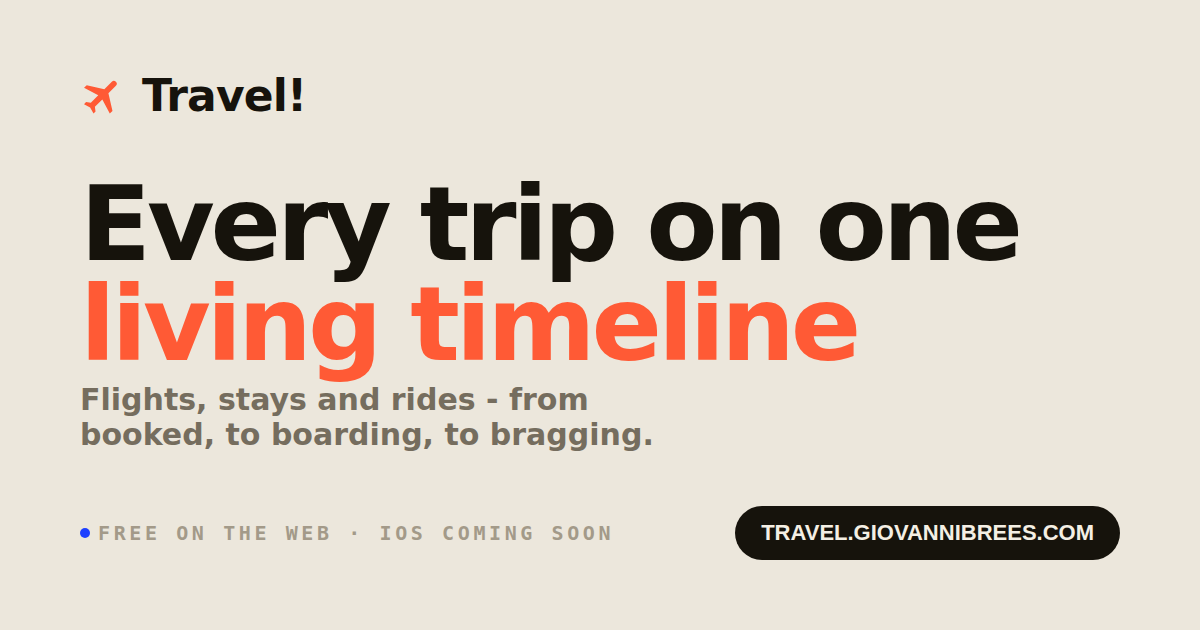
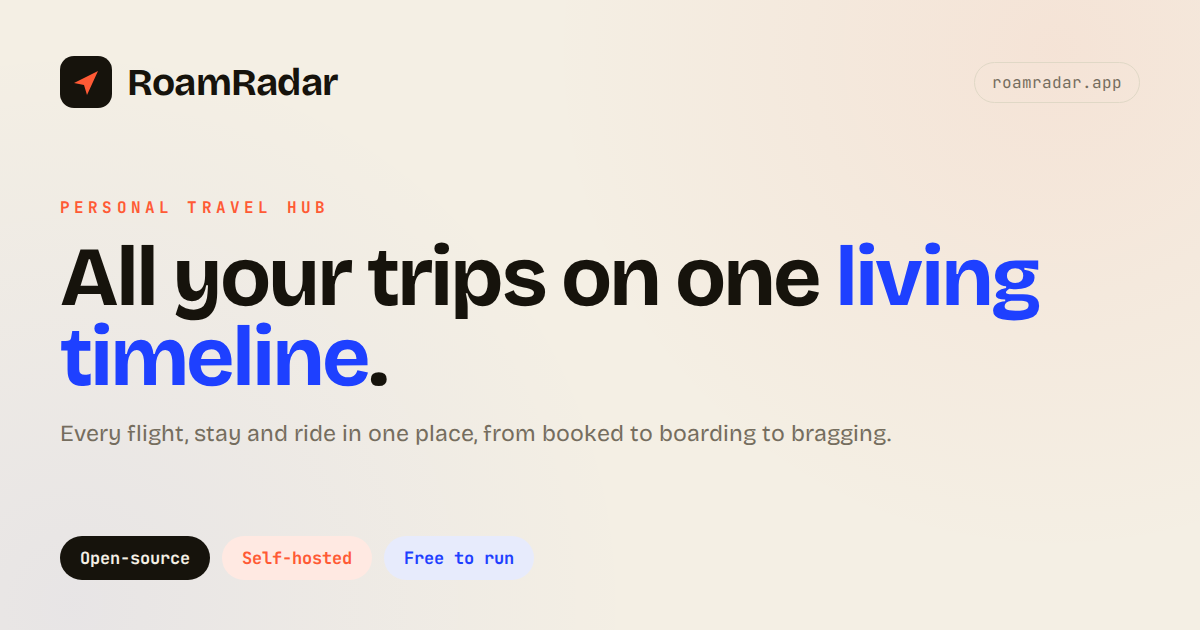
Rebrand Travel! -> RoamRadar; point website download CTA to the GitHub repo
- App + PWA name, titles, meta/OG, JSON-LD and in-app heading renamed to
  RoamRadar across index.html, app.html, travel-app.html and both manifests.
- worker.js: calendar feed name (X-WR-CALNAME) and ICS PRODID rebranded.
- Website "Download" CTA now links to github.com/giovannibrees/travel-roamradar
  (opens in a new tab); caption updated to "Open-source / self-hosted / free".
- Regenerated public/og.png as an on-brand RoamRadar social card (1200x630).
- README / website README titles updated.

The app icon (coral navigation arrow, no text) is brand-neutral and unchanged.

Claude-Session: https://claude.ai/code/session_01A6MXuQ5RrqRWDMUXSLJ1hC

diff --git a/public/index.html b/public/index.html
@@ -4,27 +4,27 @@
 <script>(function(){try{if((window.matchMedia&&matchMedia("(display-mode: standalone)").matches)||navigator.standalone){location.replace("/app");}}catch(e){}})();</script>
 <meta charset="utf-8">
 <meta name="viewport" content="width=device-width, initial-scale=1">
-<title>Travel! - all your trips on one living timeline</title>
-<meta name="description" content="Travel! keeps every flight, stay and ride on one living timeline - from booked, to boarding, to bragging. Free on the web, iOS coming soon.">
+<title>RoamRadar - all your trips on one living timeline</title>
+<meta name="description" content="RoamRadar keeps every flight, stay and ride on one living timeline - from booked, to boarding, to bragging. Free on the web, iOS coming soon.">
 <link rel="canonical" href="https://travel.giovannibrees.com/">
 <meta name="theme-color" content="#ECE7DC">
 <meta name="robots" content="index, follow, max-image-preview:large">
 <meta property="og:type" content="website">
-<meta property="og:site_name" content="Travel!">
-<meta property="og:title" content="Travel! - all your trips on one living timeline">
+<meta property="og:site_name" content="RoamRadar">
+<meta property="og:title" content="RoamRadar - all your trips on one living timeline">
 <meta property="og:description" content="Keep every flight, stay and ride on one living timeline - from booked, to boarding, to bragging. Free on the web, iOS coming soon.">
 <meta property="og:url" content="https://travel.giovannibrees.com/">
 <meta property="og:image" content="https://travel.giovannibrees.com/og.png">
 <meta property="og:image:width" content="1200">
 <meta property="og:image:height" content="630">
-<meta property="og:image:alt" content="Travel! - every trip on one living timeline">
+<meta property="og:image:alt" content="RoamRadar - every trip on one living timeline">
 <meta name="twitter:card" content="summary_large_image">
-<meta name="twitter:title" content="Travel! - all your trips on one living timeline">
+<meta name="twitter:title" content="RoamRadar - all your trips on one living timeline">
 <meta name="twitter:description" content="Every flight, stay and ride on one living timeline. Free on the web, iOS coming soon.">
 <meta name="twitter:image" content="https://travel.giovannibrees.com/og.png">
 <link rel="icon" type="image/png" sizes="192x192" href="/icon-192.png">
 <link rel="apple-touch-icon" href="/icon-180.png">
-<script type="application/ld+json">{"@context":"https://schema.org","@type":"WebApplication","name":"Travel!","url":"https://travel.giovannibrees.com/","description":"Keep every flight, stay and ride on one living timeline - from booked, to boarding, to bragging.","applicationCategory":"TravelApplication","operatingSystem":"Web, iOS","browserRequirements":"Requires JavaScript","offers":{"@type":"Offer","price":"0","priceCurrency":"USD"},"author":{"@type":"Person","name":"Giovanni Brees","url":"https://www.giovannibrees.com"}}</script>
+<script type="application/ld+json">{"@context":"https://schema.org","@type":"WebApplication","name":"RoamRadar","url":"https://travel.giovannibrees.com/","description":"Keep every flight, stay and ride on one living timeline - from booked, to boarding, to bragging.","applicationCategory":"TravelApplication","operatingSystem":"Web, iOS","browserRequirements":"Requires JavaScript","offers":{"@type":"Offer","price":"0","priceCurrency":"USD"},"author":{"@type":"Person","name":"Giovanni Brees","url":"https://www.giovannibrees.com"}}</script>
 <link rel="preconnect" href="https://fonts.googleapis.com">
 <link rel="preconnect" href="https://fonts.gstatic.com" crossorigin="">
 <link href="https://fonts.googleapis.com/css2?family=Bricolage+Grotesque:opsz,wght@12..96,400;12..96,500;12..96,600;12..96,700;12..96,800&amp;family=Archivo:wght@400;500;600;700&amp;family=JetBrains+Mono:ital,wght@0,400;0,500;0,700;0,800;1,500;1,700&amp;display=swap" rel="stylesheet">
@@ -66,7 +66,7 @@
   <nav style="max-width: 1200px; margin: 0 auto; padding: 22px clamp(20px, 4vw, 40px); display: flex; align-items: center; justify-content: space-between; gap: 16px;">
     <div style="display: flex; align-items: center; gap: 9px;">
       <svg width="24" height="24" viewBox="0 0 24 24" fill="none" style="color: #FF5A35; transform: rotate(45deg);"><path d="M21 16v-2l-8-5V3.5A1.5 1.5 0 0 0 11.5 2 1.5 1.5 0 0 0 10 3.5V9l-8 5v2l8-2.5V19l-2 1.5V22l3.5-1 3.5 1v-1.5L13 19v-5.5l8 2.5Z" fill="currentColor"></path></svg>
-      <span style="font-family: 'Bricolage Grotesque', sans-serif; font-weight: 800; font-size: 24px; letter-spacing: -.02em;">Travel!</span>
+      <span style="font-family: 'Bricolage Grotesque', sans-serif; font-weight: 800; font-size: 24px; letter-spacing: -.02em;">RoamRadar</span>
     </div>
     <a href="#get" style="font-family: 'Archivo', sans-serif; font-weight: 700; font-size: 14px; color: #F4EFE4; background: #16130C; text-decoration: none; padding: 11px 22px; border-radius: 999px; transition: transform .15s ease, box-shadow .15s ease;" class="tw-h1">Download</a>
   </nav>
@@ -84,7 +84,7 @@
       <span style="font-weight: 600; font-size: 14px; color: #756D5E; padding: 9px 18px; border-radius: 999px;">Past</span>
       <span style="font-weight: 600; font-size: 14px; color: #756D5E; padding: 9px 18px; border-radius: 999px;">Wishlist</span>
     </div>
-    <p style="font-size: 17px; line-height: 1.5; color: #756D5E; max-width: 520px; margin: 22px auto 0; text-wrap: pretty; animation: riseIn .6s ease .18s both;">Travel! keeps every flight, stay and ride on one living timeline - from booked, to boarding, to bragging.</p>
+    <p style="font-size: 17px; line-height: 1.5; color: #756D5E; max-width: 520px; margin: 22px auto 0; text-wrap: pretty; animation: riseIn .6s ease .18s both;">RoamRadar keeps every flight, stay and ride on one living timeline - from booked, to boarding, to bragging.</p>
     <div style="margin-top: 26px; animation: riseIn .6s ease .24s both;">
       <a href="#get" style="display: inline-block; font-family: 'Archivo', sans-serif; font-weight: 700; font-size: 16px; color: #F4EFE4; background: #16130C; text-decoration: none; padding: 15px 30px; border-radius: 999px; transition: transform .15s ease, box-shadow .15s ease;" class="tw-h2">Download the app</a>
       
@@ -436,12 +436,12 @@
 
     <!-- ============ GIANT CTA ============ -->
     <div id="get" style="padding: 110px 0 90px; text-align: center;">
-      <a href="/app" style="display: flex; align-items: center; justify-content: center; width: min(760px, 100%); height: clamp(150px, 22vw, 220px); margin: 0 auto; background: #1E40FF; border-radius: 999px; text-decoration: none; transition: transform .2s ease, box-shadow .2s ease; box-shadow: 0 40px 90px -40px rgba(30,64,255,.8);" class="tw-h3">
-        <span style="font-family: 'Bricolage Grotesque', sans-serif; font-weight: 700; font-size: clamp(26px, 4vw, 40px); letter-spacing: -.02em; color: #F4EFE4;">Download Travel!</span>
+      <a href="https://github.com/giovannibrees/travel-roamradar" target="_blank" rel="noopener" style="display: flex; align-items: center; justify-content: center; width: min(760px, 100%); height: clamp(150px, 22vw, 220px); margin: 0 auto; background: #1E40FF; border-radius: 999px; text-decoration: none; transition: transform .2s ease, box-shadow .2s ease; box-shadow: 0 40px 90px -40px rgba(30,64,255,.8);" class="tw-h3">
+        <span style="font-family: 'Bricolage Grotesque', sans-serif; font-weight: 700; font-size: clamp(26px, 4vw, 40px); letter-spacing: -.02em; color: #F4EFE4;">Get RoamRadar on GitHub</span>
       </a>
-      
-        <div style="font-family: 'JetBrains Mono', monospace; font-size: 11px; letter-spacing: .22em; color: rgba(244,239,228,.5); margin-top: 26px;">FREE ON THE WEB · IOS COMING SOON</div>
-      
+
+        <div style="font-family: 'JetBrains Mono', monospace; font-size: 11px; letter-spacing: .22em; color: rgba(244,239,228,.5); margin-top: 26px;">OPEN-SOURCE · SELF-HOSTED · FREE TO RUN</div>
+
     </div>
 
     <!-- ============ FOOTER ============ -->
@@ -450,7 +450,7 @@
         <div>
           <div style="display: flex; align-items: center; gap: 8px;">
             <svg width="20" height="20" viewBox="0 0 24 24" fill="none" style="color: #FF5A35; transform: rotate(45deg);"><path d="M21 16v-2l-8-5V3.5A1.5 1.5 0 0 0 11.5 2 1.5 1.5 0 0 0 10 3.5V9l-8 5v2l8-2.5V19l-2 1.5V22l3.5-1 3.5 1v-1.5L13 19v-5.5l8 2.5Z" fill="currentColor"></path></svg>
-            <span style="font-family: 'Bricolage Grotesque', sans-serif; font-weight: 800; font-size: 20px;">Travel!</span>
+            <span style="font-family: 'Bricolage Grotesque', sans-serif; font-weight: 800; font-size: 20px;">RoamRadar</span>
           </div>
           <div style="font-family: 'JetBrains Mono', monospace; font-size: 10.5px; letter-spacing: .2em; color: rgba(244,239,228,.45); margin-top: 10px;">© 2026</div>
         </div>

diff --git a/website/index.html b/website/index.html
@@ -4,27 +4,27 @@
 <script>(function(){try{if((window.matchMedia&&matchMedia("(display-mode: standalone)").matches)||navigator.standalone){location.replace("/app");}}catch(e){}})();</script>
 <meta charset="utf-8">
 <meta name="viewport" content="width=device-width, initial-scale=1">
-<title>Travel! - all your trips on one living timeline</title>
-<meta name="description" content="Travel! keeps every flight, stay and ride on one living timeline - from booked, to boarding, to bragging. Free on the web, iOS coming soon.">
+<title>RoamRadar - all your trips on one living timeline</title>
+<meta name="description" content="RoamRadar keeps every flight, stay and ride on one living timeline - from booked, to boarding, to bragging. Free on the web, iOS coming soon.">
 <link rel="canonical" href="https://travel.giovannibrees.com/">
 <meta name="theme-color" content="#ECE7DC">
 <meta name="robots" content="index, follow, max-image-preview:large">
 <meta property="og:type" content="website">
-<meta property="og:site_name" content="Travel!">
-<meta property="og:title" content="Travel! - all your trips on one living timeline">
+<meta property="og:site_name" content="RoamRadar">
+<meta property="og:title" content="RoamRadar - all your trips on one living timeline">
 <meta property="og:description" content="Keep every flight, stay and ride on one living timeline - from booked, to boarding, to bragging. Free on the web, iOS coming soon.">
 <meta property="og:url" content="https://travel.giovannibrees.com/">
 <meta property="og:image" content="https://travel.giovannibrees.com/og.png">
 <meta property="og:image:width" content="1200">
 <meta property="og:image:height" content="630">
-<meta property="og:image:alt" content="Travel! - every trip on one living timeline">
+<meta property="og:image:alt" content="RoamRadar - every trip on one living timeline">
 <meta name="twitter:card" content="summary_large_image">
-<meta name="twitter:title" content="Travel! - all your trips on one living timeline">
+<meta name="twitter:title" content="RoamRadar - all your trips on one living timeline">
 <meta name="twitter:description" content="Every flight, stay and ride on one living timeline. Free on the web, iOS coming soon.">
 <meta name="twitter:image" content="https://travel.giovannibrees.com/og.png">
 <link rel="icon" type="image/png" sizes="192x192" href="/icon-192.png">
 <link rel="apple-touch-icon" href="/icon-180.png">
-<script type="application/ld+json">{"@context":"https://schema.org","@type":"WebApplication","name":"Travel!","url":"https://travel.giovannibrees.com/","description":"Keep every flight, stay and ride on one living timeline - from booked, to boarding, to bragging.","applicationCategory":"TravelApplication","operatingSystem":"Web, iOS","browserRequirements":"Requires JavaScript","offers":{"@type":"Offer","price":"0","priceCurrency":"USD"},"author":{"@type":"Person","name":"Giovanni Brees","url":"https://www.giovannibrees.com"}}</script>
+<script type="application/ld+json">{"@context":"https://schema.org","@type":"WebApplication","name":"RoamRadar","url":"https://travel.giovannibrees.com/","description":"Keep every flight, stay and ride on one living timeline - from booked, to boarding, to bragging.","applicationCategory":"TravelApplication","operatingSystem":"Web, iOS","browserRequirements":"Requires JavaScript","offers":{"@type":"Offer","price":"0","priceCurrency":"USD"},"author":{"@type":"Person","name":"Giovanni Brees","url":"https://www.giovannibrees.com"}}</script>
 <link rel="preconnect" href="https://fonts.googleapis.com">
 <link rel="preconnect" href="https://fonts.gstatic.com" crossorigin="">
 <link href="https://fonts.googleapis.com/css2?family=Bricolage+Grotesque:opsz,wght@12..96,400;12..96,500;12..96,600;12..96,700;12..96,800&amp;family=Archivo:wght@400;500;600;700&amp;family=JetBrains+Mono:ital,wght@0,400;0,500;0,700;0,800;1,500;1,700&amp;display=swap" rel="stylesheet">
@@ -66,7 +66,7 @@
   <nav style="max-width: 1200px; margin: 0 auto; padding: 22px clamp(20px, 4vw, 40px); display: flex; align-items: center; justify-content: space-between; gap: 16px;">
     <div style="display: flex; align-items: center; gap: 9px;">
       <svg width="24" height="24" viewBox="0 0 24 24" fill="none" style="color: #FF5A35; transform: rotate(45deg);"><path d="M21 16v-2l-8-5V3.5A1.5 1.5 0 0 0 11.5 2 1.5 1.5 0 0 0 10 3.5V9l-8 5v2l8-2.5V19l-2 1.5V22l3.5-1 3.5 1v-1.5L13 19v-5.5l8 2.5Z" fill="currentColor"></path></svg>
-      <span style="font-family: 'Bricolage Grotesque', sans-serif; font-weight: 800; font-size: 24px; letter-spacing: -.02em;">Travel!</span>
+      <span style="font-family: 'Bricolage Grotesque', sans-serif; font-weight: 800; font-size: 24px; letter-spacing: -.02em;">RoamRadar</span>
     </div>
     <a href="#get" style="font-family: 'Archivo', sans-serif; font-weight: 700; font-size: 14px; color: #F4EFE4; background: #16130C; text-decoration: none; padding: 11px 22px; border-radius: 999px; transition: transform .15s ease, box-shadow .15s ease;" class="tw-h1">Download</a>
   </nav>
@@ -84,7 +84,7 @@
       <span style="font-weight: 600; font-size: 14px; color: #756D5E; padding: 9px 18px; border-radius: 999px;">Past</span>
       <span style="font-weight: 600; font-size: 14px; color: #756D5E; padding: 9px 18px; border-radius: 999px;">Wishlist</span>
     </div>
-    <p style="font-size: 17px; line-height: 1.5; color: #756D5E; max-width: 520px; margin: 22px auto 0; text-wrap: pretty; animation: riseIn .6s ease .18s both;">Travel! keeps every flight, stay and ride on one living timeline - from booked, to boarding, to bragging.</p>
+    <p style="font-size: 17px; line-height: 1.5; color: #756D5E; max-width: 520px; margin: 22px auto 0; text-wrap: pretty; animation: riseIn .6s ease .18s both;">RoamRadar keeps every flight, stay and ride on one living timeline - from booked, to boarding, to bragging.</p>
     <div style="margin-top: 26px; animation: riseIn .6s ease .24s both;">
       <a href="#get" style="display: inline-block; font-family: 'Archivo', sans-serif; font-weight: 700; font-size: 16px; color: #F4EFE4; background: #16130C; text-decoration: none; padding: 15px 30px; border-radius: 999px; transition: transform .15s ease, box-shadow .15s ease;" class="tw-h2">Download the app</a>
       
@@ -436,12 +436,12 @@
 
     <!-- ============ GIANT CTA ============ -->
     <div id="get" style="padding: 110px 0 90px; text-align: center;">
-      <a href="/app" style="display: flex; align-items: center; justify-content: center; width: min(760px, 100%); height: clamp(150px, 22vw, 220px); margin: 0 auto; background: #1E40FF; border-radius: 999px; text-decoration: none; transition: transform .2s ease, box-shadow .2s ease; box-shadow: 0 40px 90px -40px rgba(30,64,255,.8);" class="tw-h3">
-        <span style="font-family: 'Bricolage Grotesque', sans-serif; font-weight: 700; font-size: clamp(26px, 4vw, 40px); letter-spacing: -.02em; color: #F4EFE4;">Download Travel!</span>
+      <a href="https://github.com/giovannibrees/travel-roamradar" target="_blank" rel="noopener" style="display: flex; align-items: center; justify-content: center; width: min(760px, 100%); height: clamp(150px, 22vw, 220px); margin: 0 auto; background: #1E40FF; border-radius: 999px; text-decoration: none; transition: transform .2s ease, box-shadow .2s ease; box-shadow: 0 40px 90px -40px rgba(30,64,255,.8);" class="tw-h3">
+        <span style="font-family: 'Bricolage Grotesque', sans-serif; font-weight: 700; font-size: clamp(26px, 4vw, 40px); letter-spacing: -.02em; color: #F4EFE4;">Get RoamRadar on GitHub</span>
       </a>
-      
-        <div style="font-family: 'JetBrains Mono', monospace; font-size: 11px; letter-spacing: .22em; color: rgba(244,239,228,.5); margin-top: 26px;">FREE ON THE WEB · IOS COMING SOON</div>
-      
+
+        <div style="font-family: 'JetBrains Mono', monospace; font-size: 11px; letter-spacing: .22em; color: rgba(244,239,228,.5); margin-top: 26px;">OPEN-SOURCE · SELF-HOSTED · FREE TO RUN</div>
+
     </div>
 
     <!-- ============ FOOTER ============ -->
@@ -450,7 +450,7 @@
         <div>
           <div style="display: flex; align-items: center; gap: 8px;">
             <svg width="20" height="20" viewBox="0 0 24 24" fill="none" style="color: #FF5A35; transform: rotate(45deg);"><path d="M21 16v-2l-8-5V3.5A1.5 1.5 0 0 0 11.5 2 1.5 1.5 0 0 0 10 3.5V9l-8 5v2l8-2.5V19l-2 1.5V22l3.5-1 3.5 1v-1.5L13 19v-5.5l8 2.5Z" fill="currentColor"></path></svg>
-            <span style="font-family: 'Bricolage Grotesque', sans-serif; font-weight: 800; font-size: 20px;">Travel!</span>
+            <span style="font-family: 'Bricolage Grotesque', sans-serif; font-weight: 800; font-size: 20px;">RoamRadar</span>
           </div>
           <div style="font-family: 'JetBrains Mono', monospace; font-size: 10.5px; letter-spacing: .2em; color: rgba(244,239,228,.45); margin-top: 10px;">© 2026</div>
         </div>

diff --git a/public/app.html b/public/app.html
@@ -3,13 +3,13 @@
 <head>
 <meta charset="utf-8">
 <meta name="viewport" content="width=device-width, initial-scale=1, viewport-fit=cover">
-<title>Travel</title>
+<title>RoamRadar</title>
 <meta name="robots" content="noindex, nofollow">
 <meta name="theme-color" content="#ECE7DC">
 <meta name="apple-mobile-web-app-capable" content="yes">
 <meta name="mobile-web-app-capable" content="yes">
 <meta name="apple-mobile-web-app-status-bar-style" content="default">
-<meta name="apple-mobile-web-app-title" content="Travel">
+<meta name="apple-mobile-web-app-title" content="RoamRadar">
 <link rel="manifest" href="/manifest.webmanifest">
 <link rel="apple-touch-icon" href="/icon-180.png">
 <link rel="icon" type="image/png" sizes="192x192" href="/icon-192.png">
@@ -354,7 +354,7 @@
 <div class="wrap">
   <header class="topbar">
     <div class="brand">
-      <h1>Travel</h1>
+      <h1>RoamRadar</h1>
       <p>Every trip - its flights, stays and rides - on one living timeline.</p>
     </div>
     <div class="ctl">
@@ -601,7 +601,7 @@
     var dt=function(d){return d.replace(/-/g,"");};
     var dtEnd=function(d){var x=new Date(d+"T00:00:00Z");x.setUTCDate(x.getUTCDate()+1);return x.toISOString().slice(0,10).replace(/-/g,"");};
     var desc=(t.segments||[]).map(function(s){return (s.type||"")+": "+(s.name||"");}).join("\\n");
-    return ["BEGIN:VCALENDAR","VERSION:2.0","PRODID:-//Travel//EN","BEGIN:VEVENT","UID:"+t.id+"@travel",
+    return ["BEGIN:VCALENDAR","VERSION:2.0","PRODID:-//RoamRadar//EN","BEGIN:VEVENT","UID:"+t.id+"@travel",
       "DTSTART;VALUE=DATE:"+dt(t.start),"DTEND;VALUE=DATE:"+dtEnd(t.end),
       "SUMMARY:Trip: "+((t.label||codeify(t.to)||"Travel").replace(/[,;]/g," ")),"DESCRIPTION:"+desc,"END:VEVENT","END:VCALENDAR"].join("\r\n");
   }

diff --git a/travel-app.html b/travel-app.html
@@ -3,13 +3,13 @@
 <head>
 <meta charset="utf-8">
 <meta name="viewport" content="width=device-width, initial-scale=1, viewport-fit=cover">
-<title>Travel</title>
+<title>RoamRadar</title>
 <meta name="robots" content="noindex, nofollow">
 <meta name="theme-color" content="#ECE7DC">
 <meta name="apple-mobile-web-app-capable" content="yes">
 <meta name="mobile-web-app-capable" content="yes">
 <meta name="apple-mobile-web-app-status-bar-style" content="default">
-<meta name="apple-mobile-web-app-title" content="Travel">
+<meta name="apple-mobile-web-app-title" content="RoamRadar">
 <link rel="manifest" href="/manifest.webmanifest">
 <link rel="apple-touch-icon" href="/icon-180.png">
 <link rel="icon" type="image/png" sizes="192x192" href="/icon-192.png">
@@ -354,7 +354,7 @@
 <div class="wrap">
   <header class="topbar">
     <div class="brand">
-      <h1>Travel</h1>
+      <h1>RoamRadar</h1>
       <p>Every trip - its flights, stays and rides - on one living timeline.</p>
     </div>
     <div class="ctl">
@@ -601,7 +601,7 @@
     var dt=function(d){return d.replace(/-/g,"");};
     var dtEnd=function(d){var x=new Date(d+"T00:00:00Z");x.setUTCDate(x.getUTCDate()+1);return x.toISOString().slice(0,10).replace(/-/g,"");};
     var desc=(t.segments||[]).map(function(s){return (s.type||"")+": "+(s.name||"");}).join("\\n");
-    return ["BEGIN:VCALENDAR","VERSION:2.0","PRODID:-//Travel//EN","BEGIN:VEVENT","UID:"+t.id+"@travel",
+    return ["BEGIN:VCALENDAR","VERSION:2.0","PRODID:-//RoamRadar//EN","BEGIN:VEVENT","UID:"+t.id+"@travel",
       "DTSTART;VALUE=DATE:"+dt(t.start),"DTEND;VALUE=DATE:"+dtEnd(t.end),
       "SUMMARY:Trip: "+((t.label||codeify(t.to)||"Travel").replace(/[,;]/g," ")),"DESCRIPTION:"+desc,"END:VEVENT","END:VCALENDAR"].join("\r\n");
   }

diff --git a/worker.js b/worker.js
@@ -1,4 +1,4 @@
-// Travel sync worker (Cloudflare)
+// RoamRadar sync worker (Cloudflare)
 // One hub. Your app is the only UI. Everything else is headless:
 //   - Google Calendar    reads events you already drop in (Booking, Airbnb...) as trip segments, writes one clean event per trip
 //   - Gmail + Claude      parses confirmation emails (drivers, transfers) into segments
@@ -1066,7 +1066,7 @@ function buildIcs(store) {
       desc ? "DESCRIPTION:" + icsEscape(desc) : "",
       "END:VEVENT"].filter(Boolean).join("\r\n");
   }).join("\r\n");
-  return "BEGIN:VCALENDAR\r\nVERSION:2.0\r\nPRODID:-//travel-hub//EN\r\nCALSCALE:GREGORIAN\r\nX-WR-CALNAME:Travel\r\n" + ev + "\r\nEND:VCALENDAR\r\n";
+  return "BEGIN:VCALENDAR\r\nVERSION:2.0\r\nPRODID:-//RoamRadar//EN\r\nCALSCALE:GREGORIAN\r\nX-WR-CALNAME:RoamRadar\r\n" + ev + "\r\nEND:VCALENDAR\r\n";
 }
 
 async function loadStore(env) {

diff --git a/README.md b/README.md
@@ -1,4 +1,4 @@
-# ✈ Travel — your own personal travel hub
+# ✈ RoamRadar - your own personal travel hub
 
 <p align="center">
   <img src="docs/screenshots/travel-demo.gif" alt="Walkthrough: trip card with photo, year calendar, and been-there world map" width="300">

diff --git a/website/README.md b/website/README.md
@@ -1,4 +1,4 @@
-# Travel! - marketing website
+# RoamRadar - marketing website
 
 A single self-contained `index.html` landing page for the app. No build step,
 no framework, no runtime - just open it or drop it on any static host.
